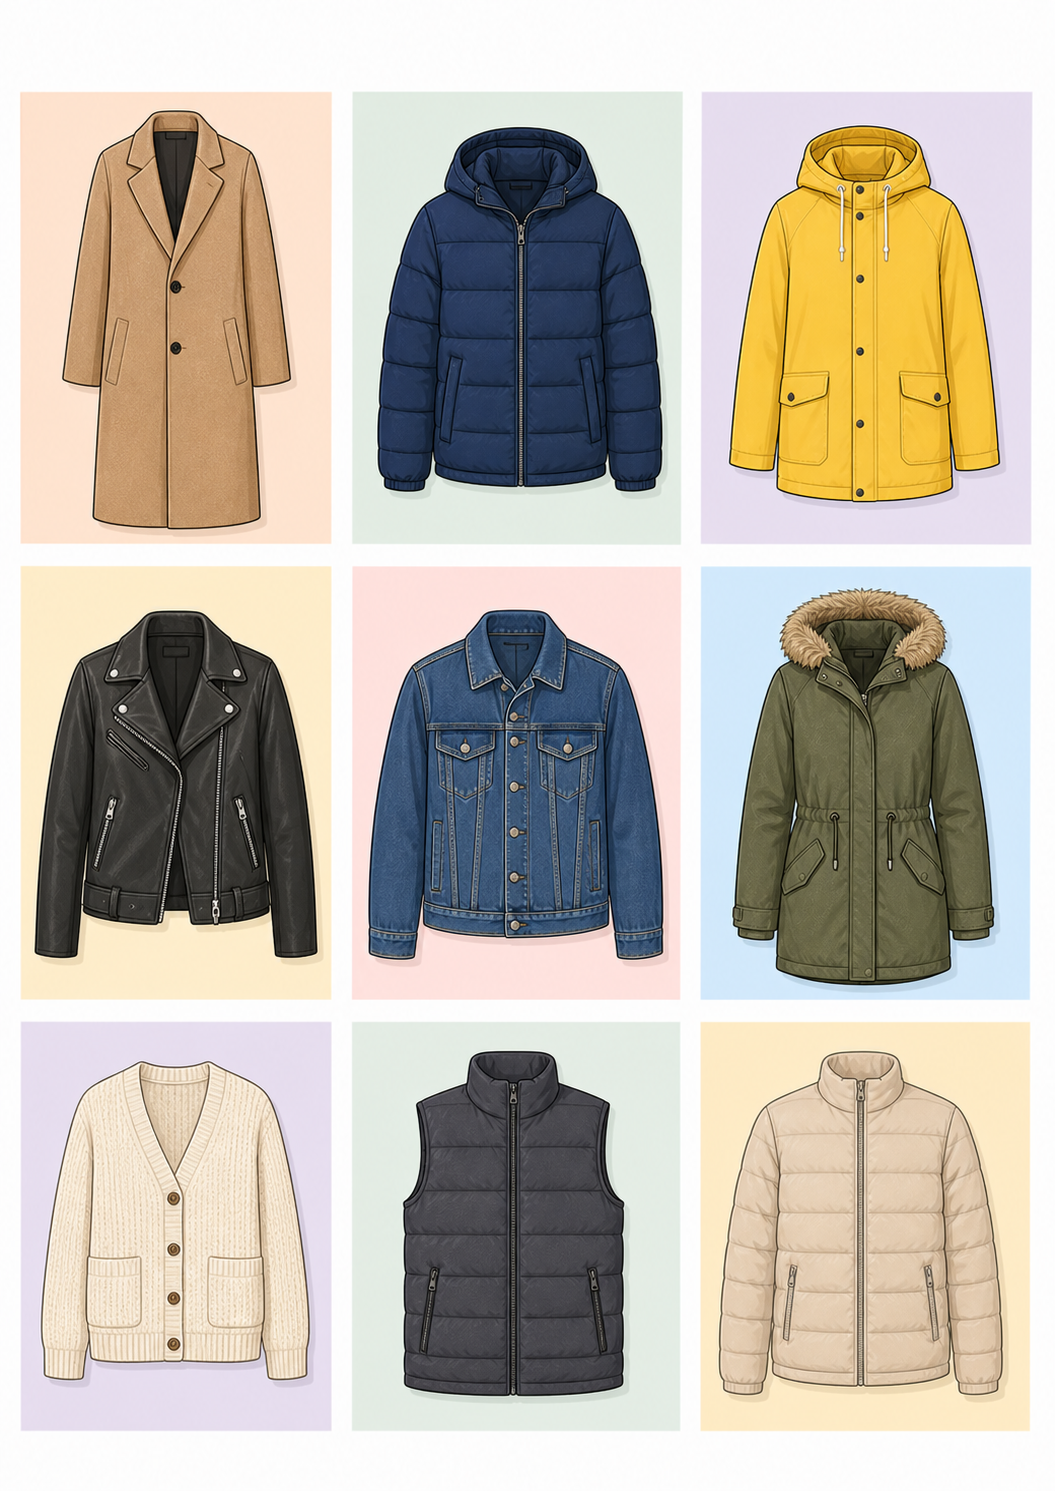
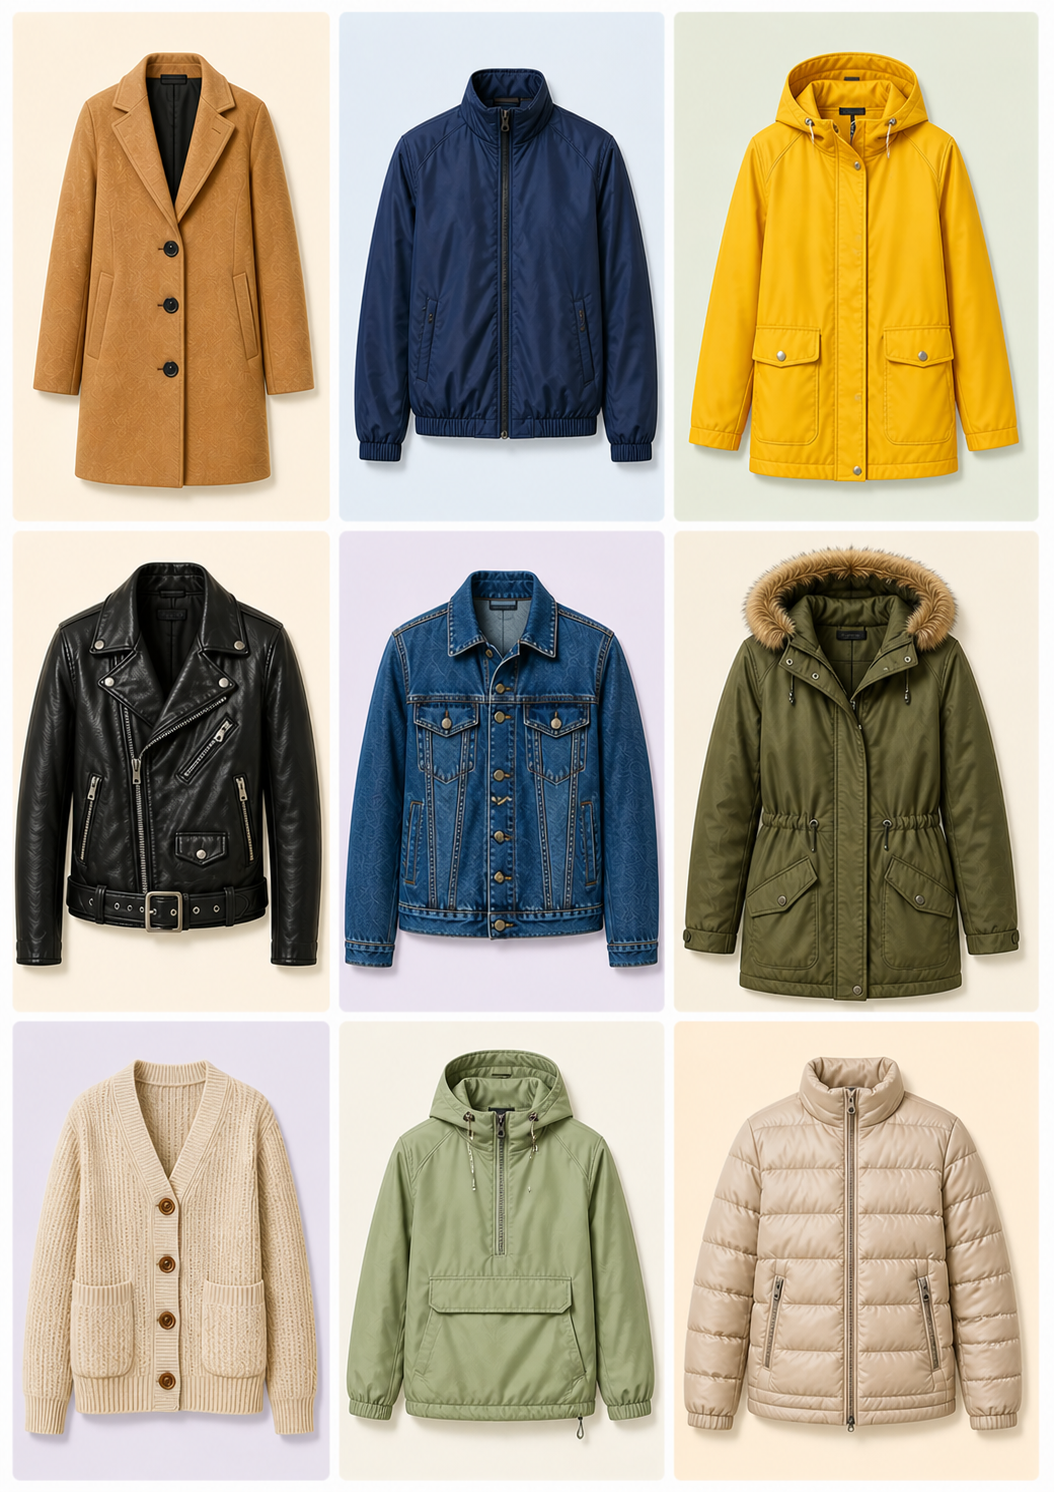
Aktualisiere ropa6 und passe Vokabeln an

diff --git a/bilder-daten.js b/bilder-daten.js
@@ -285,14 +285,14 @@ window.APP_FOLDERS = {
         file: "ropa6.png",
         hotspots: [
           { wort: "el abrigo", clickX: 16.7, clickY: 21.2, labelX: 24, labelY: 9.5, areaW: 30, areaH: 28 },
-          { wort: "el plumífero", clickX: 50, clickY: 21.2, labelX: 50, labelY: 9.5, areaW: 30, areaH: 28 },
+          { wort: "la cazadora", clickX: 50, clickY: 21.2, labelX: 50, labelY: 9.5, areaW: 30, areaH: 28 },
           { wort: "el chubasquero", clickX: 83.3, clickY: 21.2, labelX: 76, labelY: 9.5, areaW: 30, areaH: 28 },
           { wort: "la chaqueta de cuero", clickX: 16.7, clickY: 50, labelX: 24, labelY: 42, areaW: 30, areaH: 28 },
           { wort: "la chaqueta vaquera", clickX: 50, clickY: 50, labelX: 50, labelY: 42, areaW: 30, areaH: 28 },
           { wort: "la parka", clickX: 83.3, clickY: 50, labelX: 76, labelY: 42, areaW: 30, areaH: 28 },
           { wort: "la chaqueta de punto", clickX: 16.7, clickY: 81.8, labelX: 24, labelY: 75, areaW: 30, areaH: 28 },
-          { wort: "el chaleco", clickX: 50, clickY: 81.8, labelX: 50, labelY: 75, areaW: 30, areaH: 28 },
-          { wort: "la chaqueta acolchada", clickX: 83.3, clickY: 81.8, labelX: 76, labelY: 75, areaW: 30, areaH: 28 }
+          { wort: "el anorak", clickX: 50, clickY: 81.8, labelX: 50, labelY: 75, areaW: 30, areaH: 28 },
+          { wort: "el plumífero", clickX: 83.3, clickY: 81.8, labelX: 76, labelY: 75, areaW: 30, areaH: 28 }
         ]
       }
     ]
